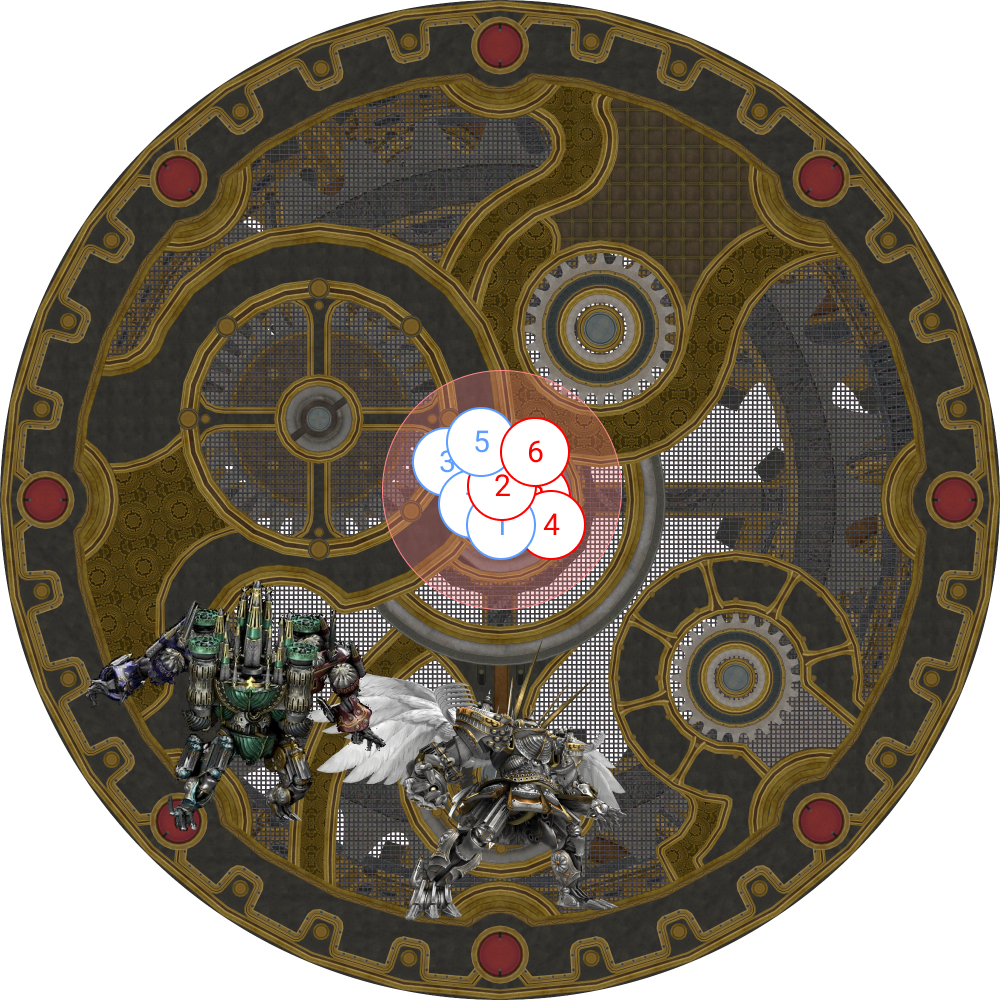
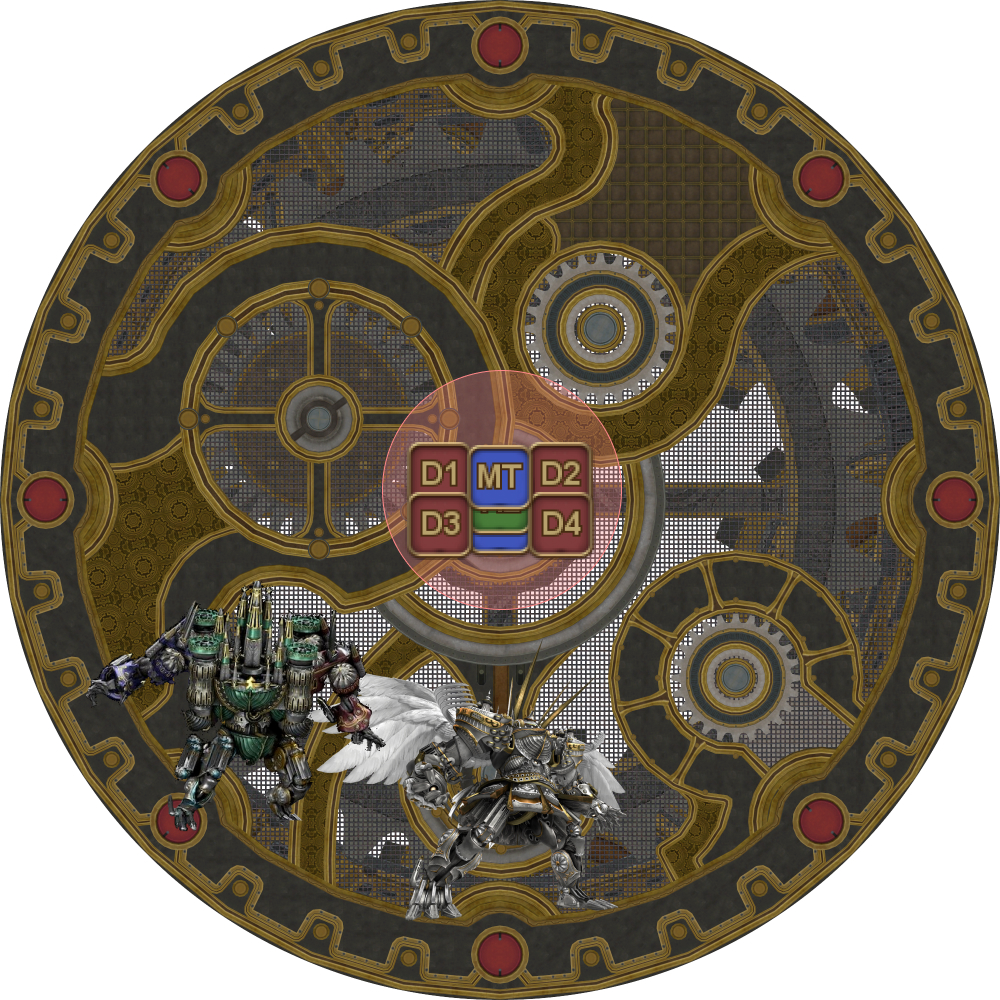
Add details on Incinerating Heat -> Enumerations

Changed region(s): [[0.403, 0.403, 0.62, 0.558]]

diff --git a/ultimates/tea/en/04_alex_prime.md b/ultimates/tea/en/04_alex_prime.md
@@ -180,7 +180,7 @@ Remember that **all odd numbered players must face outside the arena and use Arm
 	<td><img src="../images/alex_prime/wormhole_10.jpg"></td>
   </tr>
   <tr>
-    <td><b>11.</b> Party stacks in the middle for Incinerating Heat (a loose stack to better see Enumeration targets helps).</td>
+    <td><p><b>11.</b> Party loosely stacks in the middle for Incinerating Heat.</p><p>The DPS should stand a little bit west/east of the center to make it easier to determine whether a swap is needed for the upcoming Enumeration.</p><ul><li><b>D1, D3:</b> Stack a little bit west.</li><li><b>D2, D4:</b> Stack a little bit east.</li></ul></td>
 	<td><img src="../images/alex_prime/wormhole_11.jpg"></td>
   </tr>
   <tr>
